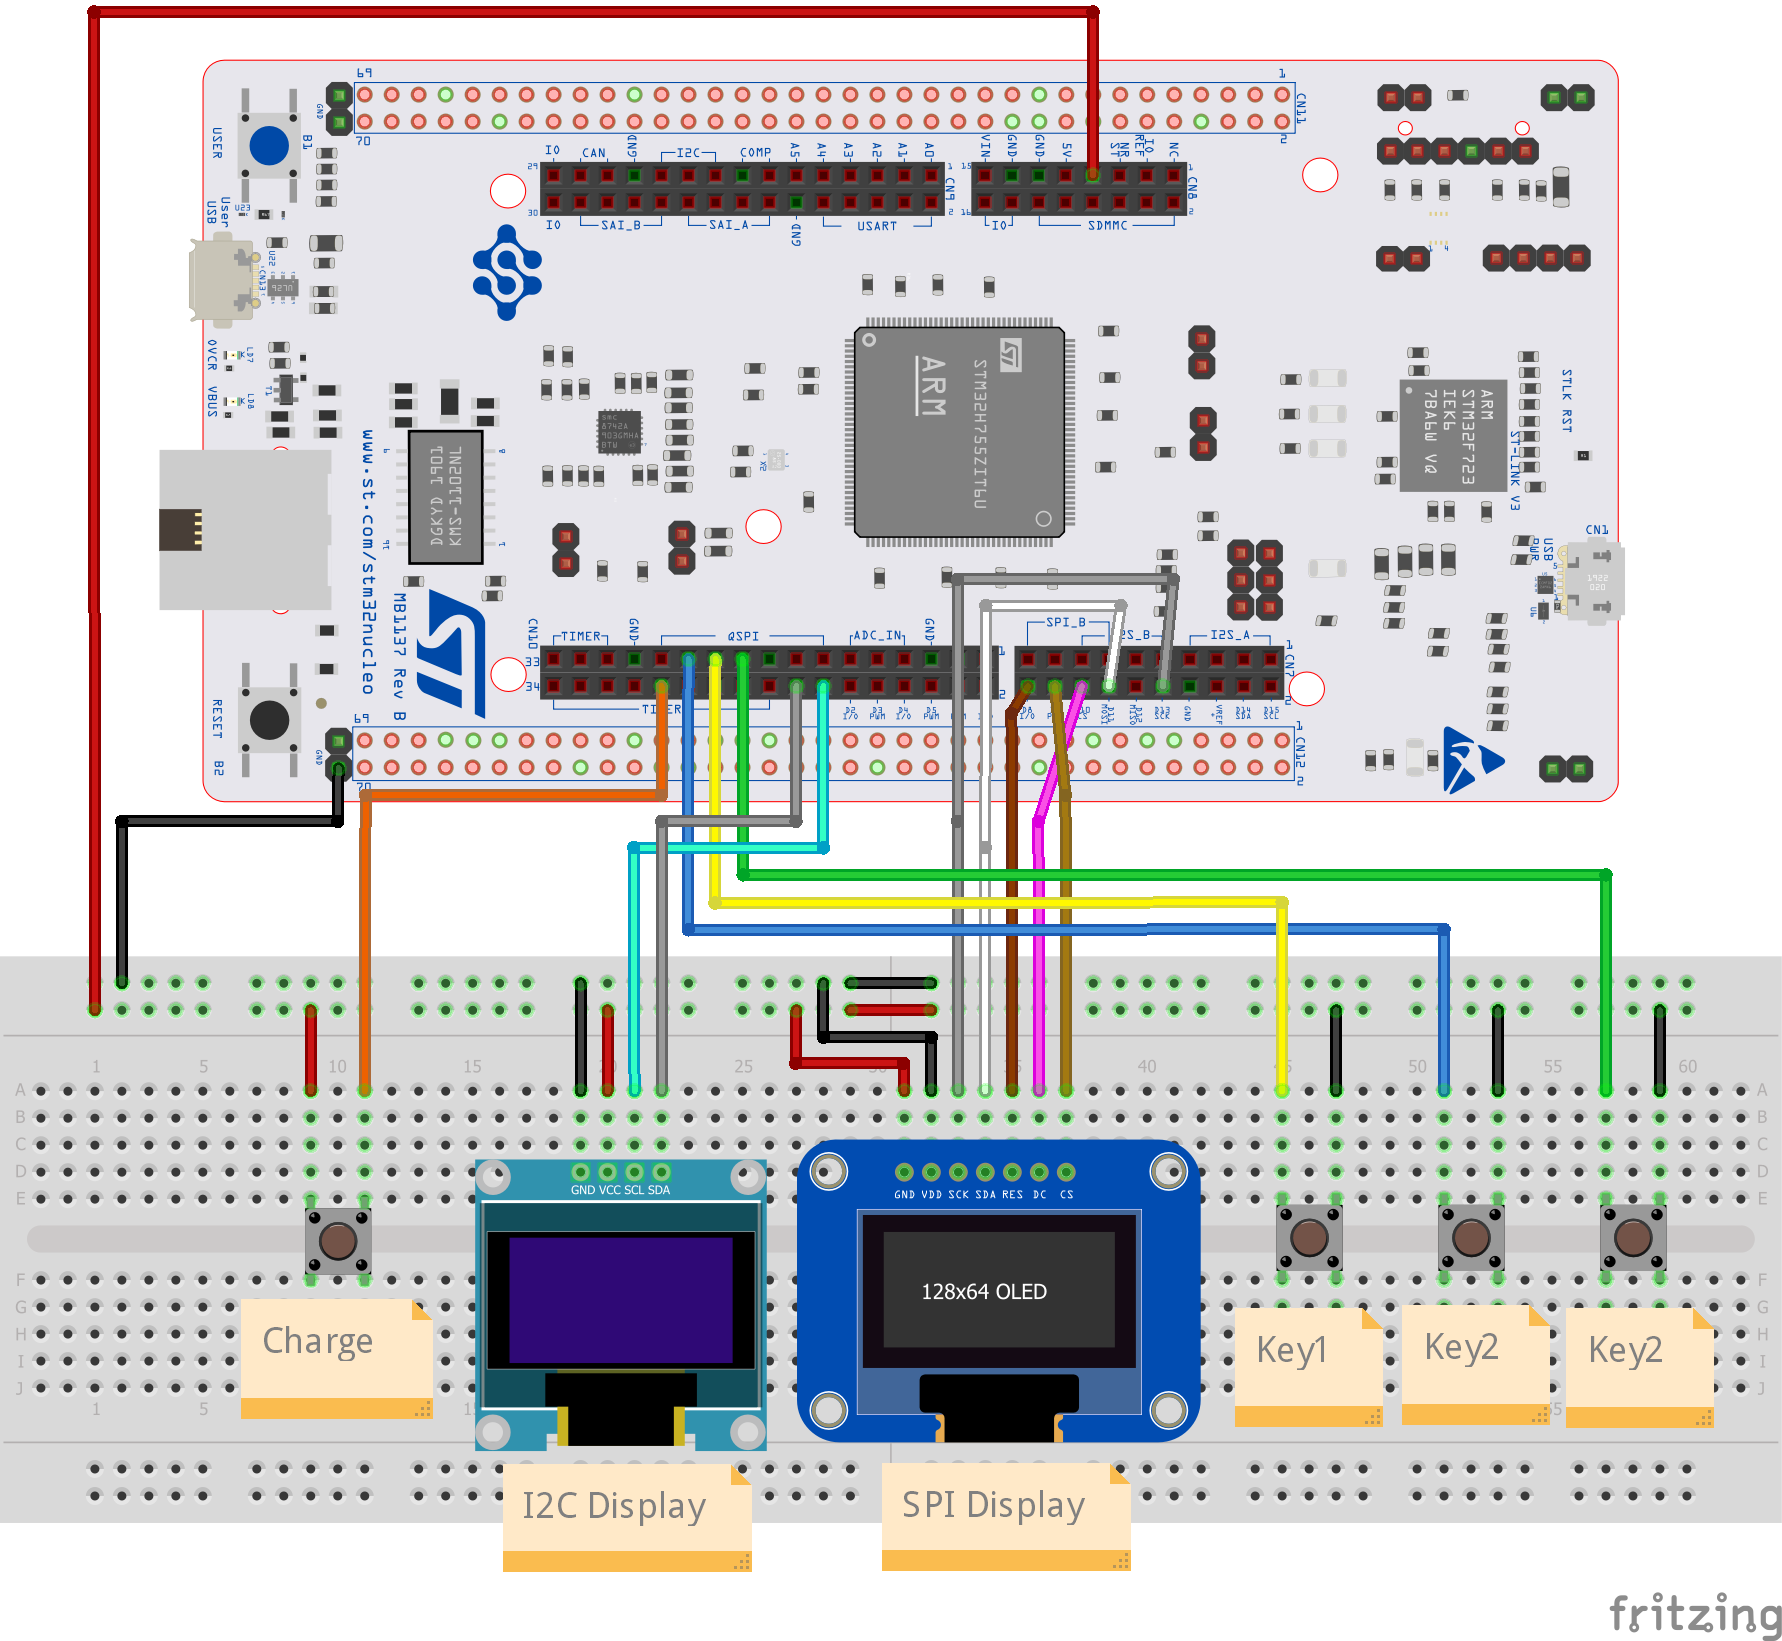
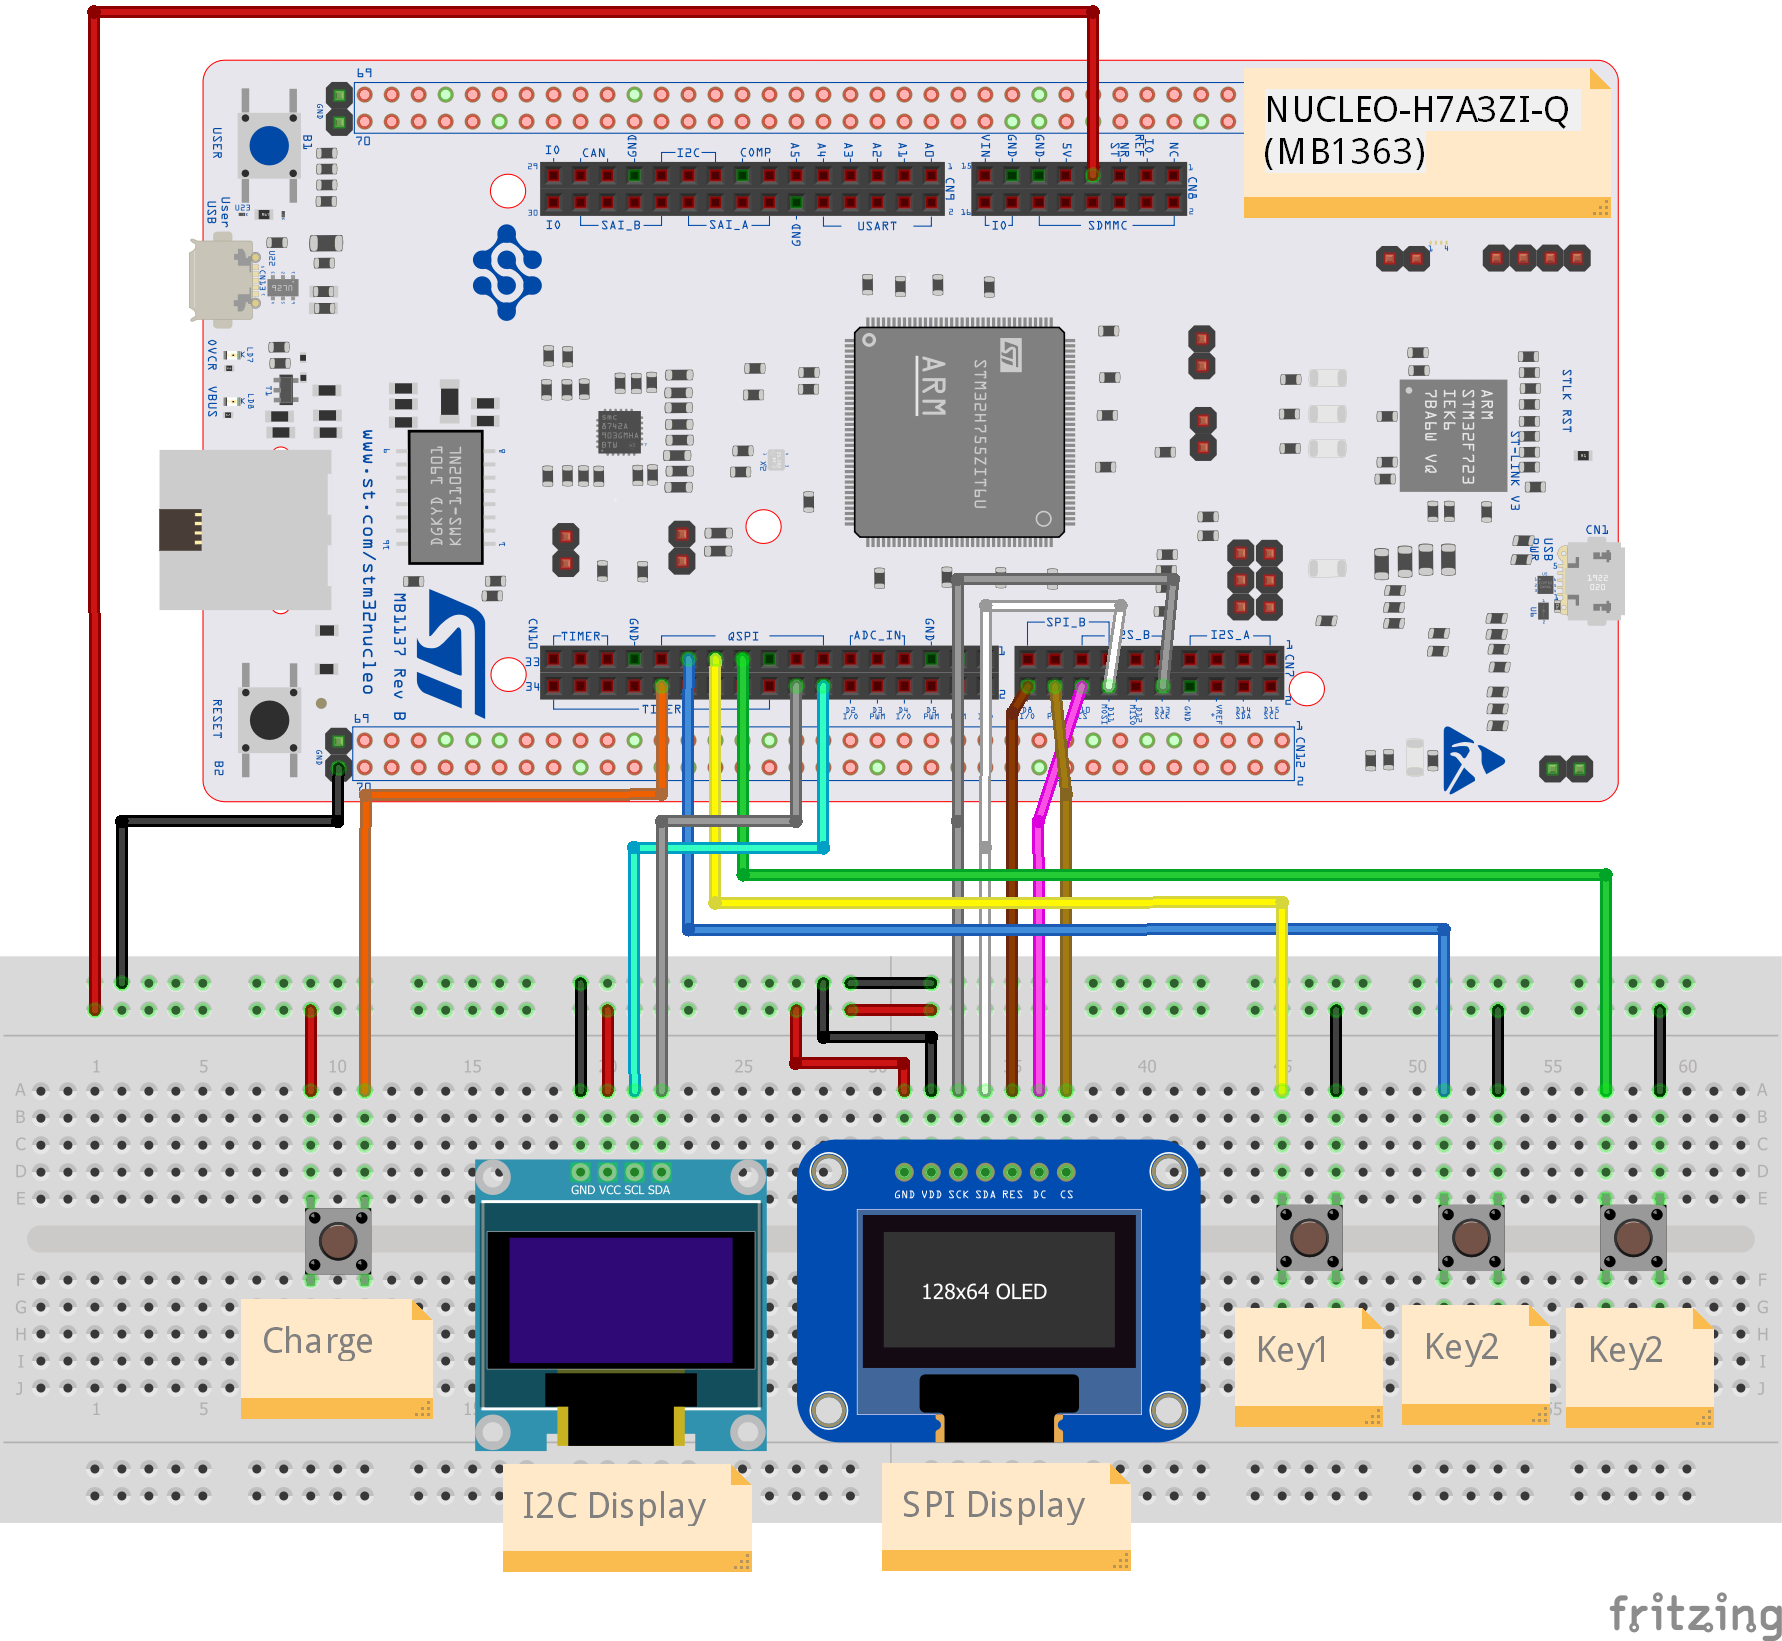
Update docco

Changed region(s): [[0.679, 0.0311, 0.9259, 0.1554]]

diff --git a/README.md b/README.md
@@ -15,7 +15,11 @@ If you are after instructions and firmware for the retail Ellipal Joy, then you 
     4. Breadboard and jumper wire
     
 2. Hardware Assembly
-![hardware_schematic](schematic/Ellipal-Joy-Nucleo_bb.png) (Schematic includes both I2C and SPI display, but you only need to connect the one that you are using)
+![hardware_schematic](schematic/Ellipal-Joy-Nucleo_bb.png)
+
+Nucleo Image above is for an MB1137 board, but the IO headers that we need are the same as the NUCLEO-H7A3ZI-Q (MB1363) so can simply be connected as above...
+
+Schematic includes both I2C and SPI display, but you only need to connect the one that you are using...
 
 # Build & flash Firmware
 
